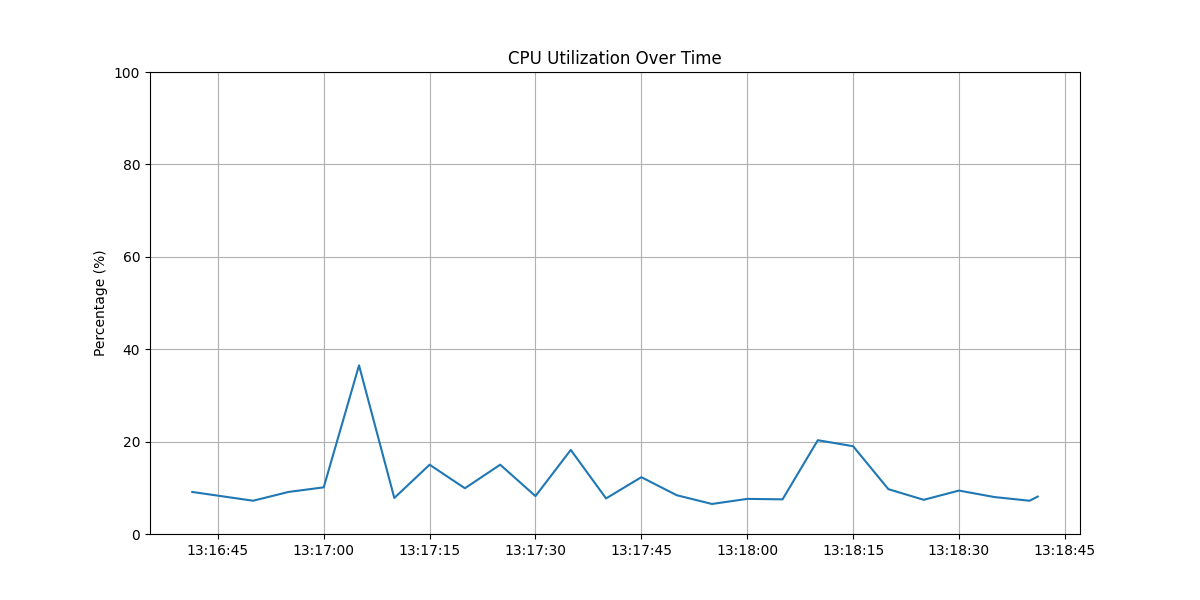
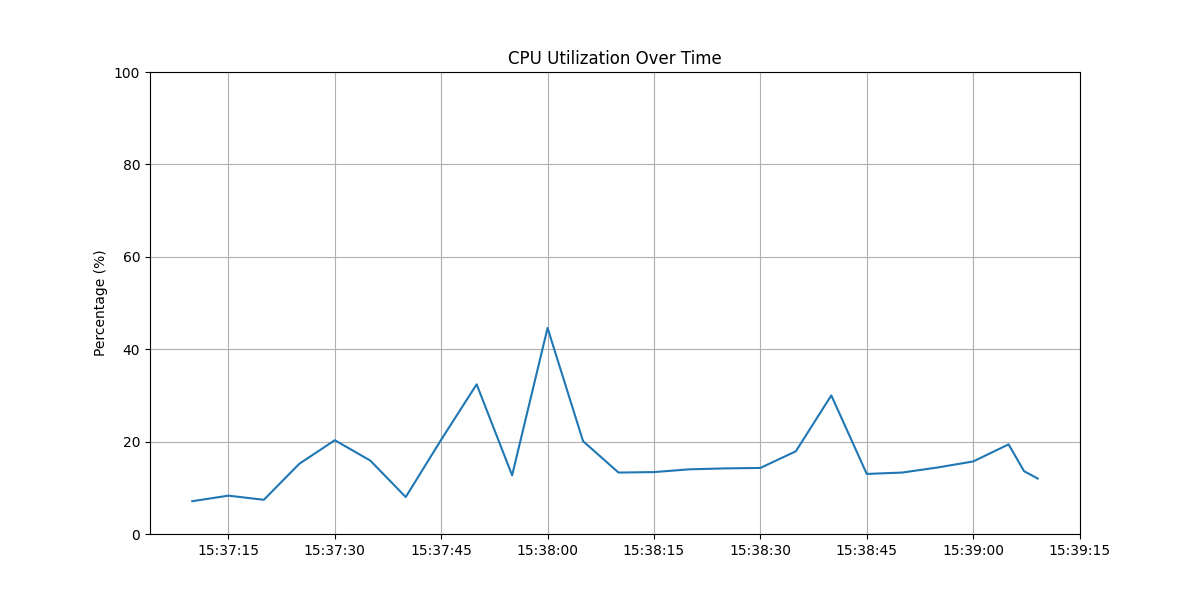
Update performance report with latest system metrics

diff --git a/performance_reports/report.html b/performance_reports/report.html
@@ -32,16 +32,16 @@
             <div class="row metric-summary">
                 <div class="col-md-4">
                     <strong>CPU Cores:</strong> 10<br>
-                    <strong>Current Load Average:</strong> (2.30322265625, 2.62744140625, 2.64208984375)<br>
-                    <strong>Max CPU Usage:</strong> 36.5%
+                    <strong>Current Load Average:</strong> (3.060546875, 2.7294921875, 2.61181640625)<br>
+                    <strong>Max CPU Usage:</strong> 44.6%
                 </div>
                 <div class="col-md-4">
                     <strong>Total Memory:</strong> 24.00 GB<br>
-                    <strong>Max Memory Usage:</strong> 79.6%<br>
-                    <strong>Swap Usage:</strong> 85.0%
+                    <strong>Max Memory Usage:</strong> 77.7%<br>
+                    <strong>Swap Usage:</strong> 85.6%
                 </div>
                 <div class="col-md-4">
-                    <strong>Processes:</strong> 846<br>
+                    <strong>Processes:</strong> 860<br>
                     <strong>Network Connections:</strong> N/A<br>
                     <strong>Sample Duration:</strong> 130 seconds
                 </div>
@@ -69,33 +69,33 @@
         <tbody>
             
         <tr>
-            <td>37861</td>
-            <td>Craft</td>
-            <td>6.6%</td>
+            <td>604</td>
+            <td>Cursor Helper (GPU)</td>
+            <td>13.0%</td>
+        </tr>
+        
+        <tr>
+            <td>698</td>
+            <td>Cursor Helper (Renderer)</td>
+            <td>9.7%</td>
         </tr>
         
         <tr>
             <td>64230</td>
             <td>Google Chrome</td>
-            <td>6.1%</td>
+            <td>6.8%</td>
         </tr>
         
         <tr>
-            <td>31777</td>
-            <td>python3.11</td>
-            <td>3.9%</td>
+            <td>37861</td>
+            <td>Craft</td>
+            <td>6.4%</td>
         </tr>
         
         <tr>
             <td>64248</td>
             <td>Google Chrome Helper (Renderer)</td>
-            <td>3.5%</td>
-        </tr>
-        
-        <tr>
-            <td>88575</td>
-            <td>language_server_macos_arm</td>
-            <td>2.8%</td>
+            <td>4.5%</td>
         </tr>
         
         </tbody>
@@ -108,17 +108,17 @@
     <table class="table table-sm">
         <tr>
             <td>1 min average:</td>
-            <td>2.30</td>
+            <td>3.06</td>
             <td>🟢 Normal</td>
         </tr>
         <tr>
             <td>5 min average:</td>
-            <td>2.63</td>
+            <td>2.73</td>
             <td>🟢 Normal</td>
         </tr>
         <tr>
             <td>15 min average:</td>
-            <td>2.64</td>
+            <td>2.61</td>
             <td>🟢 Normal</td>
         </tr>
     </table>
@@ -148,15 +148,15 @@
         <tbody>
             
         <tr>
-            <td>9155</td>
-            <td>Cursor Helper (Plugin): extension-host [1-4]</td>
-            <td>2.8%</td>
+            <td>698</td>
+            <td>Cursor Helper (Renderer)</td>
+            <td>2.7%</td>
         </tr>
         
         <tr>
-            <td>698</td>
-            <td>Cursor Helper (Renderer)</td>
-            <td>2.0%</td>
+            <td>9155</td>
+            <td>Cursor Helper (Plugin): extension-host [1-4]</td>
+            <td>1.4%</td>
         </tr>
         
         <tr>
@@ -168,13 +168,13 @@
         <tr>
             <td>64230</td>
             <td>Google Chrome</td>
-            <td>1.3%</td>
+            <td>1.2%</td>
         </tr>
         
         <tr>
-            <td>53543</td>
-            <td>Notion Helper (Renderer)</td>
-            <td>1.0%</td>
+            <td>99309</td>
+            <td>Google Chrome Helper (Renderer)</td>
+            <td>1.1%</td>
         </tr>
         
         </tbody>
@@ -191,15 +191,15 @@
         </tr>
         <tr>
             <td>Available Memory:</td>
-            <td>5.25 GB</td>
+            <td>5.63 GB</td>
         </tr>
         <tr>
             <td>Used Memory:</td>
-            <td>8.53 GB</td>
+            <td>8.97 GB</td>
         </tr>
         <tr>
             <td>Swap Usage:</td>
-            <td>85.0%</td>
+            <td>85.6%</td>
         </tr>
     </table>
     
@@ -233,21 +233,21 @@
         <tr>
             <td>/System/Volumes/VM</td>
             <td>460.43 GB</td>
-            <td>5.00 GB</td>
-            <td>2.2% 🟢 Normal</td>
+            <td>7.00 GB</td>
+            <td>3.1% 🟢 Normal</td>
         </tr>
         
         <tr>
             <td>/System/Volumes/Preboot</td>
             <td>460.43 GB</td>
             <td>6.48 GB</td>
-            <td>2.8% 🟢 Normal</td>
+            <td>2.9% 🟢 Normal</td>
         </tr>
         
         <tr>
             <td>/System/Volumes/Update</td>
             <td>460.43 GB</td>
-            <td>3.82 MB</td>
+            <td>2.87 MB</td>
             <td>0.0% 🟢 Normal</td>
         </tr>
         
@@ -275,8 +275,8 @@
         <tr>
             <td>/System/Volumes/Data</td>
             <td>460.43 GB</td>
-            <td>215.02 GB</td>
-            <td>49.2% 🟢 Normal</td>
+            <td>215.35 GB</td>
+            <td>49.5% 🟢 Normal</td>
         </tr>
         
         <tr>
@@ -300,19 +300,19 @@
                     <table class="table table-sm">
                         <tr>
                             <td>Bytes Sent:</td>
-                            <td>596.50 MB</td>
+                            <td>638.34 MB</td>
                         </tr>
                         <tr>
                             <td>Bytes Received:</td>
-                            <td>3.95 GB</td>
+                            <td>4.03 GB</td>
                         </tr>
                         <tr>
                             <td>Packets Sent:</td>
-                            <td>1,969,384</td>
+                            <td>2,133,961</td>
                         </tr>
                         <tr>
                             <td>Packets Received:</td>
-                            <td>4,454,238</td>
+                            <td>4,645,265</td>
                         </tr>
                     </table>
                 </div>
@@ -359,33 +359,33 @@
         <tbody>
             
         <tr>
-            <td>37861</td>
-            <td>Craft</td>
-            <td>6.6%</td>
+            <td>604</td>
+            <td>Cursor Helper (GPU)</td>
+            <td>13.0%</td>
+        </tr>
+        
+        <tr>
+            <td>698</td>
+            <td>Cursor Helper (Renderer)</td>
+            <td>9.7%</td>
         </tr>
         
         <tr>
             <td>64230</td>
             <td>Google Chrome</td>
-            <td>6.1%</td>
+            <td>6.8%</td>
         </tr>
         
         <tr>
-            <td>31777</td>
-            <td>python3.11</td>
-            <td>3.9%</td>
+            <td>37861</td>
+            <td>Craft</td>
+            <td>6.4%</td>
         </tr>
         
         <tr>
             <td>64248</td>
             <td>Google Chrome Helper (Renderer)</td>
-            <td>3.5%</td>
-        </tr>
-        
-        <tr>
-            <td>88575</td>
-            <td>language_server_macos_arm</td>
-            <td>2.8%</td>
+            <td>4.5%</td>
         </tr>
         
         </tbody>
@@ -406,15 +406,15 @@
         <tbody>
             
         <tr>
-            <td>9155</td>
-            <td>Cursor Helper (Plugin): extension-host [1-4]</td>
-            <td>2.8%</td>
+            <td>698</td>
+            <td>Cursor Helper (Renderer)</td>
+            <td>2.7%</td>
         </tr>
         
         <tr>
-            <td>698</td>
-            <td>Cursor Helper (Renderer)</td>
-            <td>2.0%</td>
+            <td>9155</td>
+            <td>Cursor Helper (Plugin): extension-host [1-4]</td>
+            <td>1.4%</td>
         </tr>
         
         <tr>
@@ -426,13 +426,13 @@
         <tr>
             <td>64230</td>
             <td>Google Chrome</td>
-            <td>1.3%</td>
+            <td>1.2%</td>
         </tr>
         
         <tr>
-            <td>53543</td>
-            <td>Notion Helper (Renderer)</td>
-            <td>1.0%</td>
+            <td>99309</td>
+            <td>Google Chrome Helper (Renderer)</td>
+            <td>1.1%</td>
         </tr>
         
         </tbody>
